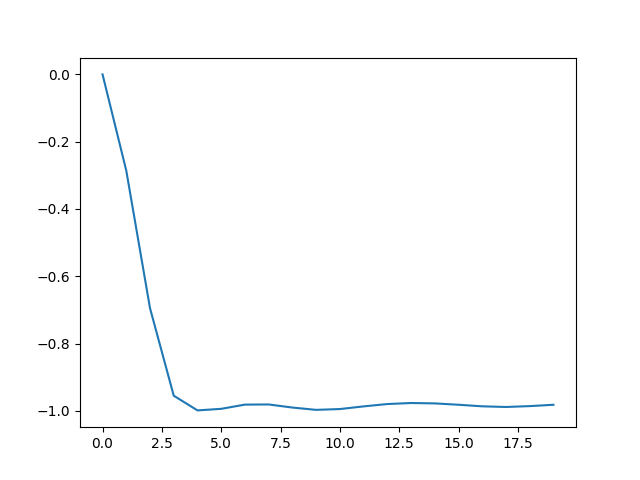
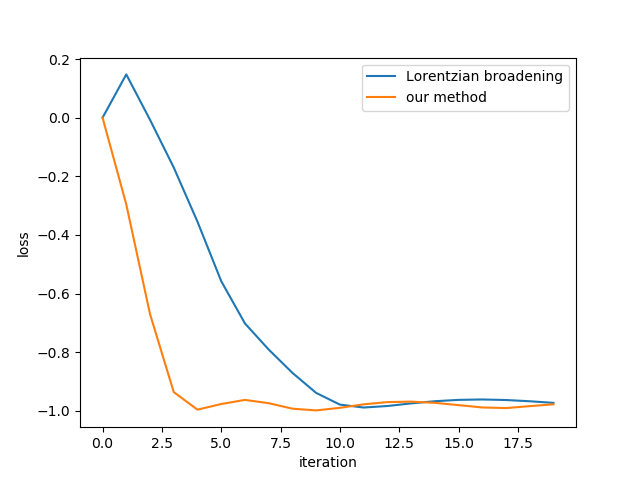
_

diff --git a/rcwa/scattering_matrix.py b/rcwa/scattering_matrix.py
@@ -1,5 +1,5 @@
 import torch
-from .diff_matfunc import sqrtm_ops_core
+from .diff_matfunc import sqrtm_ops_core, eig_diff
 
 class ScatteringMatrix:
     def __init__(self):
@@ -36,6 +36,56 @@ class ScatteringMatrix:
         self.ndim = mode.vecs.shape[0]
         self.nmode = mode.valsqrt.shape[0]
         self.propogator = torch.exp(1j * z / self.k0 * mode.valsqrt)
+
+    # construct the scattering matrix using 
+    def port_project_v2(self, port_mode, coeff, tolerance = 1e-6):
+        '''
+        The version of relaxing the repeated eigenvalues
+        '''
+        PQ = coeff.matrix_pq()
+        vals, W = eig_diff(PQ)
+        valsqrt = torch.sqrt(vals)
+        valsqrt = (valsqrt.imag > 0) * valsqrt - (valsqrt.imag <= 0) * valsqrt
+        valsqrt = torch.logical_or(torch.abs(valsqrt.imag) >= torch.abs(valsqrt.real), 
+                                        valsqrt.real >= 0) * valsqrt - torch.logical_and(
+                                        torch.abs(valsqrt.imag) < torch.abs(valsqrt.real),
+                                        valsqrt.real < 0) * valsqrt
+        valsqrt = (valsqrt.imag >= 0) * valsqrt + (valsqrt.imag < 0) * valsqrt.real
+        Omega = W @ torch.diag(valsqrt) @ torch.linalg.inv(W)
+        
+        # invW_PQ_W = self.invW @ coeff.matrix_pq() @ self.W
+        # a hacky way to do differentiable matrix square root with the square root of diagonal alreay computed
+        # Omega = sqrtm_ops_core(invW_PQ_W, self.valsqrt.detach())
+        invQV0 = torch.linalg.solve(coeff.Q, port_mode.dual_vecs)
+        # TV0 = (self.W @ Omega) @ (self.invW @ invQV0)
+        TV0 = Omega @ invQV0
+        # differentiable matrix exponential is available after PyTorch 1.7.0
+        # we wrote differentiable Pade approximation manually before since it was not available,
+        # you can check our cpp code for that implementation
+        K = torch.linalg.matrix_exp(1j * self.z / self.k0 * Omega)
+
+        M1 = port_mode.vecs + TV0
+        N2 = - (port_mode.vecs - TV0)
+        M2 = K @ N2
+        N1 = K @ M1
+        
+        M = torch.cat((torch.cat((M1, M2), dim=1), torch.cat((M2, M1), dim=1)), dim=0) # (2n x 2m)
+        N = torch.cat((N1, N2), dim = 0)
+        
+        # this saves more memory compared to solving a least square problem
+        # slightly different than our paper, but equivalent
+        # here we solve the linear system M @ X = N using QR decomposition
+        # as it is more general and even work if the matrix is not square
+        mQ, mR = torch.linalg.qr(M) 
+        mQ_mH_N = mQ.mH @ N 
+        TR = torch.linalg.solve_triangular(mR, mQ_mH_N, upper = True) 
+        k = N.shape[1]
+        T, R = torch.split(TR, k)
+        self.smat = torch.cat((TR, torch.cat((R, T), dim = 0)), dim = 1)
+
+        self.half_dim = self.smat.shape[0] // 2
+        self.left_mode = port_mode
+        self.right_mode = port_mode
 
     # construct the scattering matrix represented in the port modes
     def port_project(self, port_mode, coeff):

diff --git a/rcwa/diff_matfunc.py b/rcwa/diff_matfunc.py
@@ -17,3 +17,42 @@ class sqrtm_ops_func_core(Function):
         Y = grad_output / torch.conj(valsqrt[:, None] + valsqrt[None, :])
         return Y, None
 sqrtm_ops_core = sqrtm_ops_func_core.apply
+
+# this function is from https://github.com/kch3782/torcwa
+class Eig(torch.autograd.Function):
+    broadening_parameter = 1e-10
+
+    @staticmethod
+    def forward(ctx,x):
+        ctx.input = x
+        eigval, eigvec = torch.linalg.eig(x)
+        ctx.eigval = eigval.cpu()
+        ctx.eigvec = eigvec.cpu()
+        return eigval, eigvec
+
+    @staticmethod
+    def backward(ctx,grad_eigval,grad_eigvec):
+        eigval = ctx.eigval.to(grad_eigval)
+        eigvec = ctx.eigvec.to(grad_eigvec)
+
+        grad_eigval = torch.diag(grad_eigval)
+        s = eigval.unsqueeze(-2) - eigval.unsqueeze(-1)
+
+        # Lorentzian broadening: get small error but stabilizing the gradient calculation
+        if Eig.broadening_parameter is not None:
+            F = torch.conj(s)/(torch.abs(s)**2 + Eig.broadening_parameter)
+        elif s.dtype == torch.complex64:
+            F = torch.conj(s)/(torch.abs(s)**2 + 1.4e-45)
+        elif s.dtype == torch.complex128:
+            F = torch.conj(s)/(torch.abs(s)**2 + 4.9e-324)
+
+        diag_indices = torch.linspace(0,F.shape[-1]-1,F.shape[-1],dtype=torch.int64)
+        F[diag_indices,diag_indices] = 0.
+        XH = torch.transpose(torch.conj(eigvec),-2,-1)
+        tmp = torch.conj(F) * torch.matmul(XH, grad_eigvec)
+
+        grad = torch.matmul(torch.matmul(torch.inverse(XH), grad_eigval + tmp), XH)
+        if not torch.is_complex(ctx.input):
+            grad = torch.real(grad)
+        return grad 
+eig_diff = Eig.apply

diff --git a/test_smat.py b/test_smat.py
@@ -13,10 +13,11 @@ if device == "cuda":
 else:
     print("Using CPU")
 
-nx = 16 # half of the harmonics along x and y directions
-ny = 16
+nx = 30 # half of the harmonics along x and y directions
+ny = 10
 nx_grid = 100 # grid number along x direction, we use analytical Fourier transform, so nx_grid can be very small
-n_opt = 20 # number of optimization grid along one direction
+n_opt_y = 10 # number of optimization grid along one direction
+n_opt_x = 40
 wavelength = 1.55
 Lx = 1. # period
 Ly = 1. # period
@@ -30,10 +31,10 @@ eps_in = torch.tensor(3.48*3.48+0j, device = device, requires_grad = False, dtyp
 eps_out = torch.tensor(1.+0j, device = device, requires_grad = False, dtype = torch.complex128)
 
 # set the initial value of the optimized permittivity to be 0.5 * (eps_in + eps_out)
-de = 0.5 * torch.ones(2*n_opt//2, 2*n_opt//2, device = device, dtype = torch.float64)
+de = 0.5 * torch.ones(2*n_opt_y//2, 2*n_opt_x//2, device = device, dtype = torch.float64)
 de.requires_grad_(True)
-ex = eps_out * torch.ones(nx_grid, ny_grid, device = device, dtype = torch.float64)
-ex[nx_grid//2 - n_opt//2 : nx_grid//2 + n_opt//2, ny_grid//2 - n_opt//2 : ny_grid//2 + n_opt//2] += (eps_in - eps_out) * de
+ex = eps_out * torch.ones(ny_grid, nx_grid, device = device, dtype = torch.float64)
+ex[ny_grid//2 - n_opt_y//2 : ny_grid//2 + n_opt_y//2, nx_grid//2 - n_opt_x//2 : nx_grid//2 + n_opt_x//2] += (eps_in - eps_out) * de
 
 # the code calculate the modes in vacuum using analytical way
 # in vacuum, the modes are just plane waves

diff --git a/test_opt.py b/test_opt.py
@@ -50,6 +50,7 @@ def compute_loss(de):
     mode.compute(coeff, device = device)
     smat = ScatteringMatrix()
     smat.compute(mode, 1.)
+    # smat.port_project_v2(port_mode, coeff)
     smat.port_project(port_mode, coeff)
     Tuu_2 = torch.abs(smat.Tuu())**2
     ind_0 = select_indices[0]
@@ -78,10 +79,16 @@ for i in range(niters):
 t2 = time.perf_counter()
 print("time = ", t2 - t1)
 
+# np.save("loss_history_v2.npy", np.array(loss_history))
+loss_v2 = np.load("loss_history_v2.npy")
 plt.imshow(get_permittivity(de).detach().cpu().numpy().real)
 plt.savefig("de_final.png")
 plt.close()
 
-plt.plot(loss_history)
+plt.plot(loss_v2, label = "Lorentzian broadening")
+plt.plot(loss_history, label = "our method")
+plt.legend()
+plt.xlabel("iteration")
+plt.ylabel("loss")
 plt.savefig("loss_history.png")
 plt.close()
